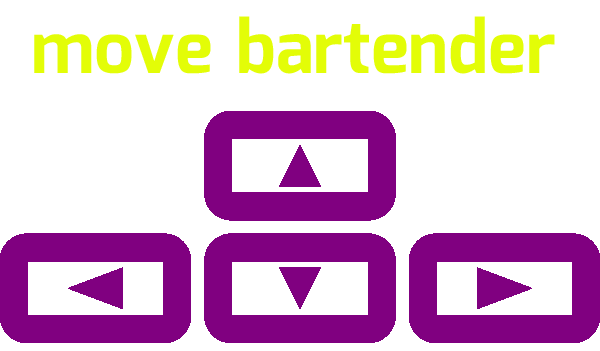
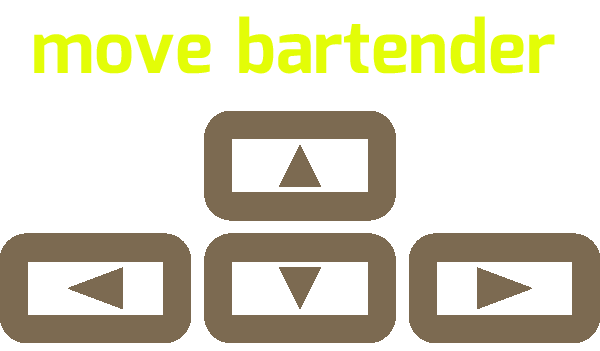
touch up styles and deploy fix

Changed region(s): [[0.0, 0.6553, 1.0, 0.9972], [0.33, 0.3134, 0.66, 0.6268]]

diff --git a/public/css/styles.css b/public/css/styles.css
@@ -2,12 +2,17 @@
 /*div to hold all elements*/
 html {
   font-family: "Mina";
-  background-color: black;
+  background-color: #b1dbdf;
   padding: 40px;
 }
 
-#container, #readyToServe, #beerTapper, #instructions, #end, #enterHighScore {
-  background-color: black;
+#container,
+#readyToServe,
+#beerTapper,
+#instructions,
+#end,
+#enterHighScore {
+  background-color: #9bc1c3;
   width: 600px;
   height: 600px;
   color: yellow;
@@ -40,8 +45,6 @@ html {
 }
 /*CUSTOMER */
 .customer {
-  /* background: url(../images/customer.svg) no-repeat; */
-  /* background-color: red; */
   width: 40px;
   height: 80px;
   position: absolute;
@@ -49,7 +52,6 @@ html {
 /*BEER */
 .beerLife {
   background: url(../images/beerLife.svg) no-repeat;
-  /* background-color: yellow; */
   width: 25px;
   height: 50px;
   position: absolute;
@@ -59,7 +61,7 @@ html {
 }
 .glass {
   /* background: url(http://www.tarafenton.com/2018/codepen/images/beer.svg) no-repeat; */
-  background: url(../images/beer2.svg) no-repeat;
+  background: url(../images/beer.svg) no-repeat;
   position: relative;
   width: 100px;
   height: 50px;
@@ -71,11 +73,12 @@ html {
   width: 21px;
   height: 1px;
   z-index: 1;
-  top:47px;
+  top: 47px;
   left: 8px;
 }
 /*POINTS and LEVEL DISPLAYS */
-#points, #level {
+#points,
+#level {
   font-size: 26px;
   padding: 0 0 0 15px;
   height: 30px;
@@ -99,13 +102,18 @@ html {
   top: 0px;
   left: 270px;
   width: 100px;
-  margin: 10px auto ;
+  margin: 10px auto;
 }
-#readyToServe, #beerTapper, #instructions, #end, #enterHighScore {
+#readyToServe,
+#beerTapper,
+#instructions,
+#end,
+#enterHighScore {
   position: absolute;
   top: 0;
 }
-#beerTapper h1, #readyToServe h1 {
+#beerTapper h1,
+#readyToServe h1 {
   position: relative;
   text-align: center;
 }
@@ -117,10 +125,12 @@ html {
   top: 200px;
   font-size: 50px;
 }
-#end, #enterHighScore {
-    color: purple;
+#end,
+#enterHighScore {
+  color: #7c6a51;
 }
-#end h1, #enterHighScore h1 {
+#end h1,
+#enterHighScore h1 {
   text-align: center;
   font-size: 50px;
 }
@@ -128,13 +138,13 @@ html {
 #highName {
   font-size: 26px;
   text-transform: uppercase;
-  background-color: black;
+  background-color: #9bc1c3;
   color: yellow;
-    padding: 10px;
-    border: 2px solid;
+  padding: 10px;
+  border: 2px solid;
 }
 h2 {
-  display:inline-block;
+  display: inline-block;
   padding: 25px 38px;
 }
 h3 {
@@ -145,22 +155,25 @@ h3 {
 }
 button {
   font-family: "Mina";
-  background-color: black;
+  background-color: #9bc1c3;
   border: none;
-  color: purple;
+  color: #7c6a51;
   /*padding: 5px 15px;*/
   font-size: 34px;
   font-weight: bold;
 }
 /*to remove the blue highlight on button*/
-button:focus, input:focus {outline:0;}
+button:focus,
+input:focus {
+  outline: 0;
+}
 * {
   -webkit-touch-callout: none;
--webkit-user-select: none;
--khtml-user-select: none;
--moz-user-select: none;
--ms-user-select: none;
-user-select: none;
+  -webkit-user-select: none;
+  -khtml-user-select: none;
+  -moz-user-select: none;
+  -ms-user-select: none;
+  user-select: none;
 }
 #submitHighScore {
   position: relative;
@@ -188,7 +201,7 @@ user-select: none;
   margin: 168px 0 0 352px;
 }
 #gameOver {
-  color: red;
+  color: #3f3124;
 }
 #restartButton {
   margin: 0px 164px;

diff --git a/public/js/Customer.js b/public/js/Customer.js
@@ -32,7 +32,7 @@ class Customer {
   }
   createCustomerDiv(customerID) {
     let $customerDiv = $(
-      "<div class='customer'><img src='../images/" +
+      "<div class='customer'><img src='./images/" +
         this.randomArray[customerID] +
         "' /></div>"
     );
